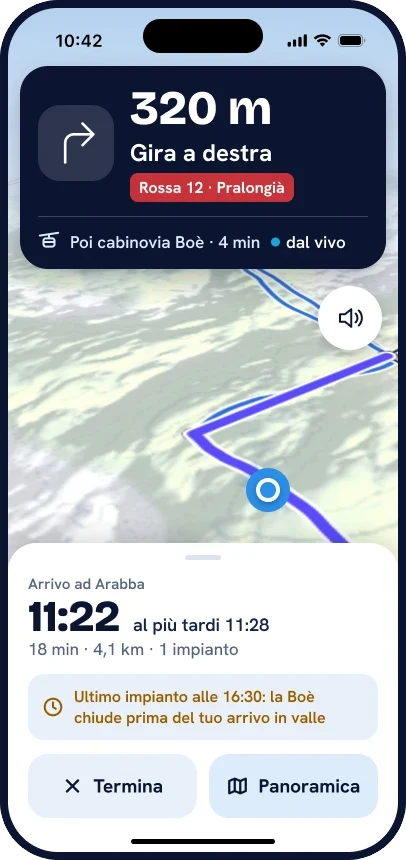
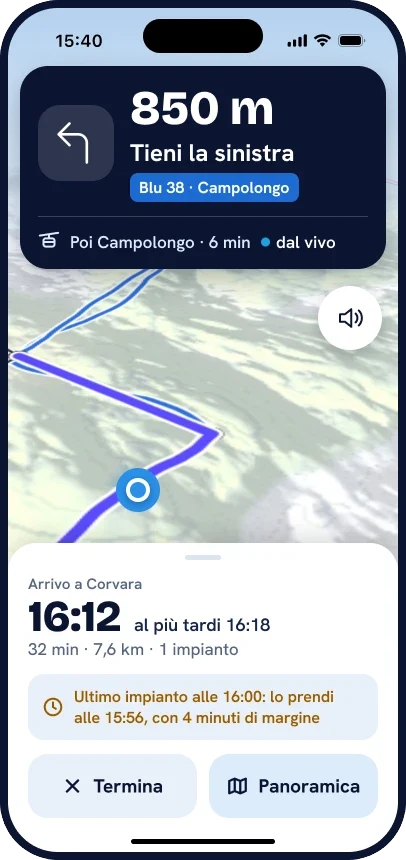
[sonnet] home: luce da est all'alba e da ovest al tramonto (velo uniforme), rientro ridisegnato
Il velo scuro piu forte a sinistra faceva sembrare la luce sempre a destra: ora uniforme + sfumatura calda da est (alba) e da ovest (tramonto), ombra leggera sui testi. check:hours misura i due lati.
Schermata del rientro nuova (Figma 219:7241): partenza 15:40 da Arabba, arrivo a Corvara 16:12, ultimo impianto 16:00, mappa e percorso diversi da In pista. In pista: orologio 11:04 (18 min all'arrivo 11:22). Etichette dei momenti 10:42 / 11:04 / 15:40 e alt del rientro nelle 5 lingue.

diff --git a/src/content/fr.ts b/src/content/fr.ts
@@ -40,9 +40,9 @@ const fr: Content = {
       eyebrow: 'Comment ça marche', h: 'Une journée, trois moments.',
       lede: 'Avant de partir, vous choisissez le circuit de votre niveau. Sur les pistes, il vous guide à la voix. L’après-midi, il vous dit quand rentrer.',
       items: [
-        { time: '08:40', title: 'Avant de partir', text: '<span data-claim="livello-tuo">Trois itinéraires vers le même endroit : débutant, intermédiaire, expert.</span> Chacun avec son temps, <span data-claim="tempi-stimati">estimé et de plus en plus précis avec l’usage</span>.', screen: 'percorsi', alt: 'Exemple : trois itinéraires par niveau de Corvara à Arabba, avec les temps' },
-        { time: '11:22', title: 'Sur les pistes', text: '<span data-claim="voce-a-voce">Indications à la voix, virage après virage.</span> <span data-claim="offline-percorso">L’itinéraire actif reste sur le téléphone et fonctionne même sans réseau.</span>', screen: 'guida', alt: 'Exemple : le guidage sur les pistes, avec le prochain virage et l’heure d’arrivée' },
-        { time: '15:40', title: 'Le retour', text: '<span data-claim="rientro-in-tempo">Il vous prévient si la dernière remontée ferme avant votre arrivée dans la vallée,</span> là où l’horaire est annoncé.', screen: 'rientro', alt: 'Exemple : l’alerte de la dernière remontée pendant le guidage' },
+        { time: '10:42', title: 'Avant de partir', text: '<span data-claim="livello-tuo">Trois itinéraires vers le même endroit : débutant, intermédiaire, expert.</span> Chacun avec son temps, <span data-claim="tempi-stimati">estimé et de plus en plus précis avec l’usage</span>.', screen: 'percorsi', alt: 'Exemple : trois itinéraires par niveau de Corvara à Arabba, avec les temps' },
+        { time: '11:04', title: 'Sur les pistes', text: '<span data-claim="voce-a-voce">Indications à la voix, virage après virage.</span> <span data-claim="offline-percorso">L’itinéraire actif reste sur le téléphone et fonctionne même sans réseau.</span>', screen: 'guida', alt: 'Exemple : le guidage sur les pistes, avec le prochain virage et l’heure d’arrivée' },
+        { time: '15:40', title: 'Le retour', text: '<span data-claim="rientro-in-tempo">Il vous prévient si la dernière remontée ferme avant votre arrivée dans la vallée,</span> là où l’horaire est annoncé.', screen: 'rientro', alt: 'Exemple : le retour d’Arabba à Corvara, départ à 15:40, arrivée à 16:12, dernière remontée à 16:00 avec 4 minutes de marge' },
       ],
     },
     areas: {
@@ -62,7 +62,7 @@ const fr: Content = {
       { id: 'il-quando', title: 'Le quand', text: 'La durée d’un itinéraire dépend de l’heure de départ : <span data-claim="tempi-stimati">les attentes aux remontées changent au fil de la journée, et les temps sont estimés et de plus en plus précis avec l’usage.</span>', screen: 'percorsi', alt: 'Exemple : trois itinéraires par niveau de Corvara à Arabba', example: 'Exemple, pas de données en direct' },
       { id: 'in-pista', title: 'Sur les pistes', text: '<span data-claim="voce-a-voce">Indications à la voix, virage après virage.</span> <span data-claim="offline-percorso">L’itinéraire actif reste sur le téléphone et fonctionne même sans réseau.</span> <span data-claim="tasca-android">Sur Android, le guidage continue avec le téléphone dans la poche.</span>', screen: 'guida', alt: 'Exemple : le guidage sur les pistes' },
       { id: 'livello', title: 'Pour votre niveau', text: '<span data-claim="livello-tuo">Débutant, intermédiaire, expert : trois circuits différents, pas le même circuit colorié de trois façons.</span> Jamais une piste au-dessus de votre niveau.' },
-      { id: 'rientro', title: 'Le retour', text: '<span data-claim="rientro-in-tempo">Si une remontée ferme avant votre arrivée, vous le savez à temps pour changer de route,</span> là où l’horaire est annoncé.', screen: 'rientro', alt: 'Exemple : l’alerte de la dernière remontée' },
+      { id: 'rientro', title: 'Le retour', text: '<span data-claim="rientro-in-tempo">Si une remontée ferme avant votre arrivée, vous le savez à temps pour changer de route,</span> là où l’horaire est annoncé.', screen: 'rientro', alt: 'Exemple : le retour d’Arabba à Corvara, départ à 15:40, arrivée à 16:12, dernière remontée à 16:00 avec 4 minutes de marge' },
       { id: 'privacy', title: 'Confidentialité', text: 'Ce qui reste sur le téléphone, ce qui nous parvient et pourquoi.' },
     ],
     privacyList: [

diff --git a/src/content/de.ts b/src/content/de.ts
@@ -40,9 +40,9 @@ const de: Content = {
       eyebrow: 'So funktioniert’s', h: 'Ein Tag, drei Momente.',
       lede: 'Vor dem Start wählst du die Tour für dein Niveau. Auf der Piste führt dich die Stimme. Am Nachmittag sagt sie dir, wann du zurückfahren musst.',
       items: [
-        { time: '08:40', title: 'Vor dem Start', text: '<span data-claim="livello-tuo">Drei Routen zum selben Ziel: Anfänger, Fortgeschrittene, Experten.</span> Jede mit ihrer eigenen Zeit, <span data-claim="tempi-stimati">geschätzt und mit der Nutzung immer genauer</span>.', screen: 'percorsi', alt: 'Beispiel: drei Routen je Niveau von Corvara nach Arabba, mit Zeiten' },
-        { time: '11:22', title: 'Auf der Piste', text: '<span data-claim="voce-a-voce">Ansagen per Stimme, Abzweigung für Abzweigung.</span> <span data-claim="offline-percorso">Die aktive Route bleibt auf dem Telefon und funktioniert auch ohne Netz.</span>', screen: 'guida', alt: 'Beispiel: die Führung auf der Piste, mit nächster Abzweigung und Ankunftszeit' },
-        { time: '15:40', title: 'Die Rückfahrt', text: '<span data-claim="rientro-in-tempo">Du wirst gewarnt, wenn der letzte Lift schließt, bevor du im Tal ankommst,</span> wo die Betriebszeiten bekannt sind.', screen: 'rientro', alt: 'Beispiel: die Warnung vor dem letzten Lift während der Führung' },
+        { time: '10:42', title: 'Vor dem Start', text: '<span data-claim="livello-tuo">Drei Routen zum selben Ziel: Anfänger, Fortgeschrittene, Experten.</span> Jede mit ihrer eigenen Zeit, <span data-claim="tempi-stimati">geschätzt und mit der Nutzung immer genauer</span>.', screen: 'percorsi', alt: 'Beispiel: drei Routen je Niveau von Corvara nach Arabba, mit Zeiten' },
+        { time: '11:04', title: 'Auf der Piste', text: '<span data-claim="voce-a-voce">Ansagen per Stimme, Abzweigung für Abzweigung.</span> <span data-claim="offline-percorso">Die aktive Route bleibt auf dem Telefon und funktioniert auch ohne Netz.</span>', screen: 'guida', alt: 'Beispiel: die Führung auf der Piste, mit nächster Abzweigung und Ankunftszeit' },
+        { time: '15:40', title: 'Die Rückfahrt', text: '<span data-claim="rientro-in-tempo">Du wirst gewarnt, wenn der letzte Lift schließt, bevor du im Tal ankommst,</span> wo die Betriebszeiten bekannt sind.', screen: 'rientro', alt: 'Beispiel: die Rückfahrt von Arabba nach Corvara, Abfahrt 15:40, Ankunft 16:12, letzter Lift um 16:00 mit 4 Minuten Reserve' },
       ],
     },
     areas: {
@@ -62,7 +62,7 @@ const de: Content = {
       { id: 'il-quando', title: 'Das Wann', text: 'Wie lange eine Route dauert, hängt davon ab, wann du losfährst: <span data-claim="tempi-stimati">Die Wartezeiten an den Liften ändern sich im Lauf des Tages, und die Zeiten sind geschätzt und mit der Nutzung immer genauer.</span>', screen: 'percorsi', alt: 'Beispiel: drei Routen je Niveau von Corvara nach Arabba', example: 'Beispiel, keine Live-Daten' },
       { id: 'in-pista', title: 'Auf der Piste', text: '<span data-claim="voce-a-voce">Ansagen per Stimme, Abzweigung für Abzweigung.</span> <span data-claim="offline-percorso">Die aktive Route bleibt auf dem Telefon und funktioniert auch ohne Netz.</span> <span data-claim="tasca-android">Auf Android läuft die Führung weiter, wenn das Telefon in der Tasche steckt.</span>', screen: 'guida', alt: 'Beispiel: die Führung auf der Piste' },
       { id: 'livello', title: 'Für dein Niveau', text: '<span data-claim="livello-tuo">Anfänger, Fortgeschrittene, Experten: drei verschiedene Touren, nicht dieselbe Tour in drei Farben.</span> Nie eine Piste über deinem Niveau.' },
-      { id: 'rientro', title: 'Die Rückfahrt', text: '<span data-claim="rientro-in-tempo">Wenn ein Lift vor deiner Ankunft schließt, weißt du es rechtzeitig, um die Route zu ändern,</span> wo die Betriebszeiten bekannt sind.', screen: 'rientro', alt: 'Beispiel: die Warnung vor dem letzten Lift' },
+      { id: 'rientro', title: 'Die Rückfahrt', text: '<span data-claim="rientro-in-tempo">Wenn ein Lift vor deiner Ankunft schließt, weißt du es rechtzeitig, um die Route zu ändern,</span> wo die Betriebszeiten bekannt sind.', screen: 'rientro', alt: 'Beispiel: die Rückfahrt von Arabba nach Corvara, Abfahrt 15:40, Ankunft 16:12, letzter Lift um 16:00 mit 4 Minuten Reserve' },
       { id: 'privacy', title: 'Datenschutz', text: 'Was auf dem Telefon bleibt, was bei uns ankommt und warum.' },
     ],
     privacyList: [

diff --git a/src/content/es.ts b/src/content/es.ts
@@ -40,9 +40,9 @@ const es: Content = {
       eyebrow: 'Cómo funciona', h: 'Un día, tres momentos.',
       lede: 'Antes de salir eliges la ruta de tu nivel. En la pista te guía con la voz. Por la tarde te dice cuándo volver.',
       items: [
-        { time: '08:40', title: 'Antes de salir', text: '<span data-claim="livello-tuo">Tres rutas al mismo sitio: principiante, intermedio, experto.</span> Cada una con su tiempo, <span data-claim="tempi-stimati">estimado y cada vez más preciso con el uso</span>.', screen: 'percorsi', alt: 'Ejemplo: tres rutas por nivel de Corvara a Arabba, con los tiempos' },
-        { time: '11:22', title: 'En la pista', text: '<span data-claim="voce-a-voce">Indicaciones por voz, giro a giro.</span> <span data-claim="offline-percorso">La ruta activa se queda en el teléfono y funciona incluso sin cobertura.</span>', screen: 'guida', alt: 'Ejemplo: la guía en la pista, con el próximo giro y la hora de llegada' },
-        { time: '15:40', title: 'La vuelta', text: '<span data-claim="rientro-in-tempo">Te avisa si el último remonte cierra antes de tu llegada al valle,</span> donde el horario está anunciado.', screen: 'rientro', alt: 'Ejemplo: el aviso del último remonte durante la guía' },
+        { time: '10:42', title: 'Antes de salir', text: '<span data-claim="livello-tuo">Tres rutas al mismo sitio: principiante, intermedio, experto.</span> Cada una con su tiempo, <span data-claim="tempi-stimati">estimado y cada vez más preciso con el uso</span>.', screen: 'percorsi', alt: 'Ejemplo: tres rutas por nivel de Corvara a Arabba, con los tiempos' },
+        { time: '11:04', title: 'En la pista', text: '<span data-claim="voce-a-voce">Indicaciones por voz, giro a giro.</span> <span data-claim="offline-percorso">La ruta activa se queda en el teléfono y funciona incluso sin cobertura.</span>', screen: 'guida', alt: 'Ejemplo: la guía en la pista, con el próximo giro y la hora de llegada' },
+        { time: '15:40', title: 'La vuelta', text: '<span data-claim="rientro-in-tempo">Te avisa si el último remonte cierra antes de tu llegada al valle,</span> donde el horario está anunciado.', screen: 'rientro', alt: 'Ejemplo: la vuelta de Arabba a Corvara, salida a las 15:40, llegada a las 16:12 y último remonte a las 16:00 con 4 minutos de margen' },
       ],
     },
     areas: {
@@ -62,7 +62,7 @@ const es: Content = {
       { id: 'il-quando', title: 'El cuándo', text: 'Lo que tarda una ruta depende de la hora a la que sales: <span data-claim="tempi-stimati">las esperas en los remontes cambian a lo largo del día, y los tiempos son estimados y cada vez más precisos con el uso.</span>', screen: 'percorsi', alt: 'Ejemplo: tres rutas por nivel de Corvara a Arabba', example: 'Ejemplo, no son datos en vivo' },
       { id: 'in-pista', title: 'En la pista', text: '<span data-claim="voce-a-voce">Indicaciones por voz, giro a giro.</span> <span data-claim="offline-percorso">La ruta activa se queda en el teléfono y funciona incluso sin cobertura.</span> <span data-claim="tasca-android">En Android, la guía continúa con el teléfono en el bolsillo.</span>', screen: 'guida', alt: 'Ejemplo: la guía en la pista' },
       { id: 'livello', title: 'Para tu nivel', text: '<span data-claim="livello-tuo">Principiante, intermedio, experto: tres rutas distintas, no la misma ruta coloreada de tres maneras.</span> Nunca una pista por encima de tu nivel.' },
-      { id: 'rientro', title: 'La vuelta', text: '<span data-claim="rientro-in-tempo">Si un remonte cierra antes de tu llegada, lo sabes a tiempo para cambiar de camino,</span> donde el horario está anunciado.', screen: 'rientro', alt: 'Ejemplo: el aviso del último remonte' },
+      { id: 'rientro', title: 'La vuelta', text: '<span data-claim="rientro-in-tempo">Si un remonte cierra antes de tu llegada, lo sabes a tiempo para cambiar de camino,</span> donde el horario está anunciado.', screen: 'rientro', alt: 'Ejemplo: la vuelta de Arabba a Corvara, salida a las 15:40, llegada a las 16:12 y último remonte a las 16:00 con 4 minutos de margen' },
       { id: 'privacy', title: 'Privacidad', text: 'Qué se queda en el teléfono, qué nos llega y por qué.' },
     ],
     privacyList: [

diff --git a/src/content/it.ts b/src/content/it.ts
@@ -40,9 +40,9 @@ const it: Content = {
       eyebrow: 'Come funziona', h: 'Una giornata, tre momenti.',
       lede: 'Prima di partire scegli il giro per il tuo livello. In pista ti guida a voce. Nel pomeriggio ti dice quando tornare.',
       items: [
-        { time: '08:40', title: 'Prima di partire', text: '<span data-claim="livello-tuo">Tre percorsi per lo stesso posto: principiante, intermedio, esperto.</span> Ognuno con il suo tempo, <span data-claim="tempi-stimati">stimato e sempre più preciso con l’uso</span>.', screen: 'percorsi', alt: 'Esempio: tre percorsi per livello da Corvara ad Arabba, con i tempi' },
-        { time: '11:22', title: 'In pista', text: '<span data-claim="voce-a-voce">Indicazioni a voce, svolta per svolta.</span> <span data-claim="offline-percorso">Il percorso attivo resta sul telefono e funziona anche senza rete.</span>', screen: 'guida', alt: 'Esempio: la guida in pista, con la prossima svolta e l’ora di arrivo' },
-        { time: '15:40', title: 'Il rientro', text: '<span data-claim="rientro-in-tempo">Ti avvisa se l’ultimo impianto chiude prima del tuo arrivo in valle,</span> dove l’orario è annunciato.', screen: 'rientro', alt: 'Esempio: l’avviso dell’ultimo impianto durante la guida' },
+        { time: '10:42', title: 'Prima di partire', text: '<span data-claim="livello-tuo">Tre percorsi per lo stesso posto: principiante, intermedio, esperto.</span> Ognuno con il suo tempo, <span data-claim="tempi-stimati">stimato e sempre più preciso con l’uso</span>.', screen: 'percorsi', alt: 'Esempio: tre percorsi per livello da Corvara ad Arabba, con i tempi' },
+        { time: '11:04', title: 'In pista', text: '<span data-claim="voce-a-voce">Indicazioni a voce, svolta per svolta.</span> <span data-claim="offline-percorso">Il percorso attivo resta sul telefono e funziona anche senza rete.</span>', screen: 'guida', alt: 'Esempio: la guida in pista, con la prossima svolta e l’ora di arrivo' },
+        { time: '15:40', title: 'Il rientro', text: '<span data-claim="rientro-in-tempo">Ti avvisa se l’ultimo impianto chiude prima del tuo arrivo in valle,</span> dove l’orario è annunciato.', screen: 'rientro', alt: 'Esempio: il rientro da Arabba a Corvara, partenza alle 15:40, arrivo alle 16:12 e ultimo impianto alle 16:00 con 4 minuti di margine' },
       ],
     },
     areas: {
@@ -62,7 +62,7 @@ const it: Content = {
       { id: 'il-quando', title: 'Il quando', text: 'Il tempo di un percorso dipende dall’ora in cui parti: <span data-claim="tempi-stimati">le attese agli impianti cambiano nella giornata, e i tempi sono stimati e sempre più precisi con l’uso.</span>', screen: 'percorsi', alt: 'Esempio: tre percorsi per livello da Corvara ad Arabba', example: 'Esempio dichiarato' },
       { id: 'in-pista', title: 'In pista', text: '<span data-claim="voce-a-voce">Indicazioni a voce, svolta per svolta.</span> <span data-claim="offline-percorso">Il percorso attivo resta sul telefono e funziona anche senza rete.</span> <span data-claim="tasca-android">Su Android la guida continua con il telefono in tasca.</span>', screen: 'guida', alt: 'Esempio: la guida in pista' },
       { id: 'livello', title: 'Per il tuo livello', text: '<span data-claim="livello-tuo">Principiante, intermedio, esperto: tre giri diversi, non lo stesso giro colorato in tre modi.</span> Mai una pista sopra il tuo livello.' },
-      { id: 'rientro', title: 'Il rientro', text: '<span data-claim="rientro-in-tempo">Se un impianto chiude prima del tuo arrivo, lo sai in tempo per cambiare strada,</span> dove l’orario è annunciato.', screen: 'rientro', alt: 'Esempio: l’avviso dell’ultimo impianto' },
+      { id: 'rientro', title: 'Il rientro', text: '<span data-claim="rientro-in-tempo">Se un impianto chiude prima del tuo arrivo, lo sai in tempo per cambiare strada,</span> dove l’orario è annunciato.', screen: 'rientro', alt: 'Esempio: il rientro da Arabba a Corvara, partenza alle 15:40, arrivo alle 16:12 e ultimo impianto alle 16:00 con 4 minuti di margine' },
       { id: 'privacy', title: 'Privacy', text: 'Cosa resta sul telefono, cosa arriva a noi e perché.' },
     ],
     privacyList: [

diff --git a/src/content/en.ts b/src/content/en.ts
@@ -38,9 +38,9 @@ const en: Content = {
       eyebrow: 'How it works', h: 'One day, three moments.',
       lede: 'Before you leave, pick the route for your level. On the slopes it guides you by voice. In the afternoon it tells you when to head back.',
       items: [
-        { time: '08:40', title: 'Before you leave', text: '<span data-claim="livello-tuo">Three routes to the same place: beginner, intermediate, expert.</span> Each with its own time, <span data-claim="tempi-stimati">estimated and more precise the more it is used</span>.', screen: 'percorsi', alt: 'Example: three routes by level from Corvara to Arabba, with times' },
-        { time: '11:22', title: 'On the slopes', text: '<span data-claim="voce-a-voce">Spoken directions, turn by turn.</span> <span data-claim="offline-percorso">Your active route stays on the phone and works even without a signal.</span>', screen: 'guida', alt: 'Example: guidance on the slopes, with the next turn and the arrival time' },
-        { time: '15:40', title: 'Heading back', text: '<span data-claim="rientro-in-tempo">It warns you if the last lift closes before you reach the valley,</span> where the hours are announced.', screen: 'rientro', alt: 'Example: the last-lift warning during guidance' },
+        { time: '10:42', title: 'Before you leave', text: '<span data-claim="livello-tuo">Three routes to the same place: beginner, intermediate, expert.</span> Each with its own time, <span data-claim="tempi-stimati">estimated and more precise the more it is used</span>.', screen: 'percorsi', alt: 'Example: three routes by level from Corvara to Arabba, with times' },
+        { time: '11:04', title: 'On the slopes', text: '<span data-claim="voce-a-voce">Spoken directions, turn by turn.</span> <span data-claim="offline-percorso">Your active route stays on the phone and works even without a signal.</span>', screen: 'guida', alt: 'Example: guidance on the slopes, with the next turn and the arrival time' },
+        { time: '15:40', title: 'Heading back', text: '<span data-claim="rientro-in-tempo">It warns you if the last lift closes before you reach the valley,</span> where the hours are announced.', screen: 'rientro', alt: 'Example: the way back from Arabba to Corvara, leaving at 15:40, arriving at 16:12, with the last lift at 16:00 and a 4-minute margin' },
       ],
     },
     areas: {
@@ -60,7 +60,7 @@ const en: Content = {
       { id: 'il-quando', title: 'The when', text: 'How long a route takes depends on when you set off: <span data-claim="tempi-stimati">waits at the lifts change through the day, and times are estimated and more precise the more it is used.</span>', screen: 'percorsi', alt: 'Example: three routes by level from Corvara to Arabba', example: 'Example, not live data' },
       { id: 'in-pista', title: 'On the slopes', text: '<span data-claim="voce-a-voce">Spoken directions, turn by turn.</span> <span data-claim="offline-percorso">Your active route stays on the phone and works even without a signal.</span> <span data-claim="tasca-android">On Android, guidance carries on with the phone in your pocket.</span>', screen: 'guida', alt: 'Example: guidance on the slopes' },
       { id: 'livello', title: 'For your level', text: '<span data-claim="livello-tuo">Beginner, intermediate, expert: three different tours, not the same tour coloured three ways.</span> Never a piste above your level.' },
-      { id: 'rientro', title: 'Heading back', text: '<span data-claim="rientro-in-tempo">If a lift closes before you arrive, you know in time to change route,</span> where the hours are announced.', screen: 'rientro', alt: 'Example: the last-lift warning' },
+      { id: 'rientro', title: 'Heading back', text: '<span data-claim="rientro-in-tempo">If a lift closes before you arrive, you know in time to change route,</span> where the hours are announced.', screen: 'rientro', alt: 'Example: the way back from Arabba to Corvara, leaving at 15:40, arriving at 16:12, with the last lift at 16:00 and a 4-minute margin' },
       { id: 'privacy', title: 'Privacy', text: 'What stays on the phone, what reaches us and why.' },
     ],
     privacyList: [
